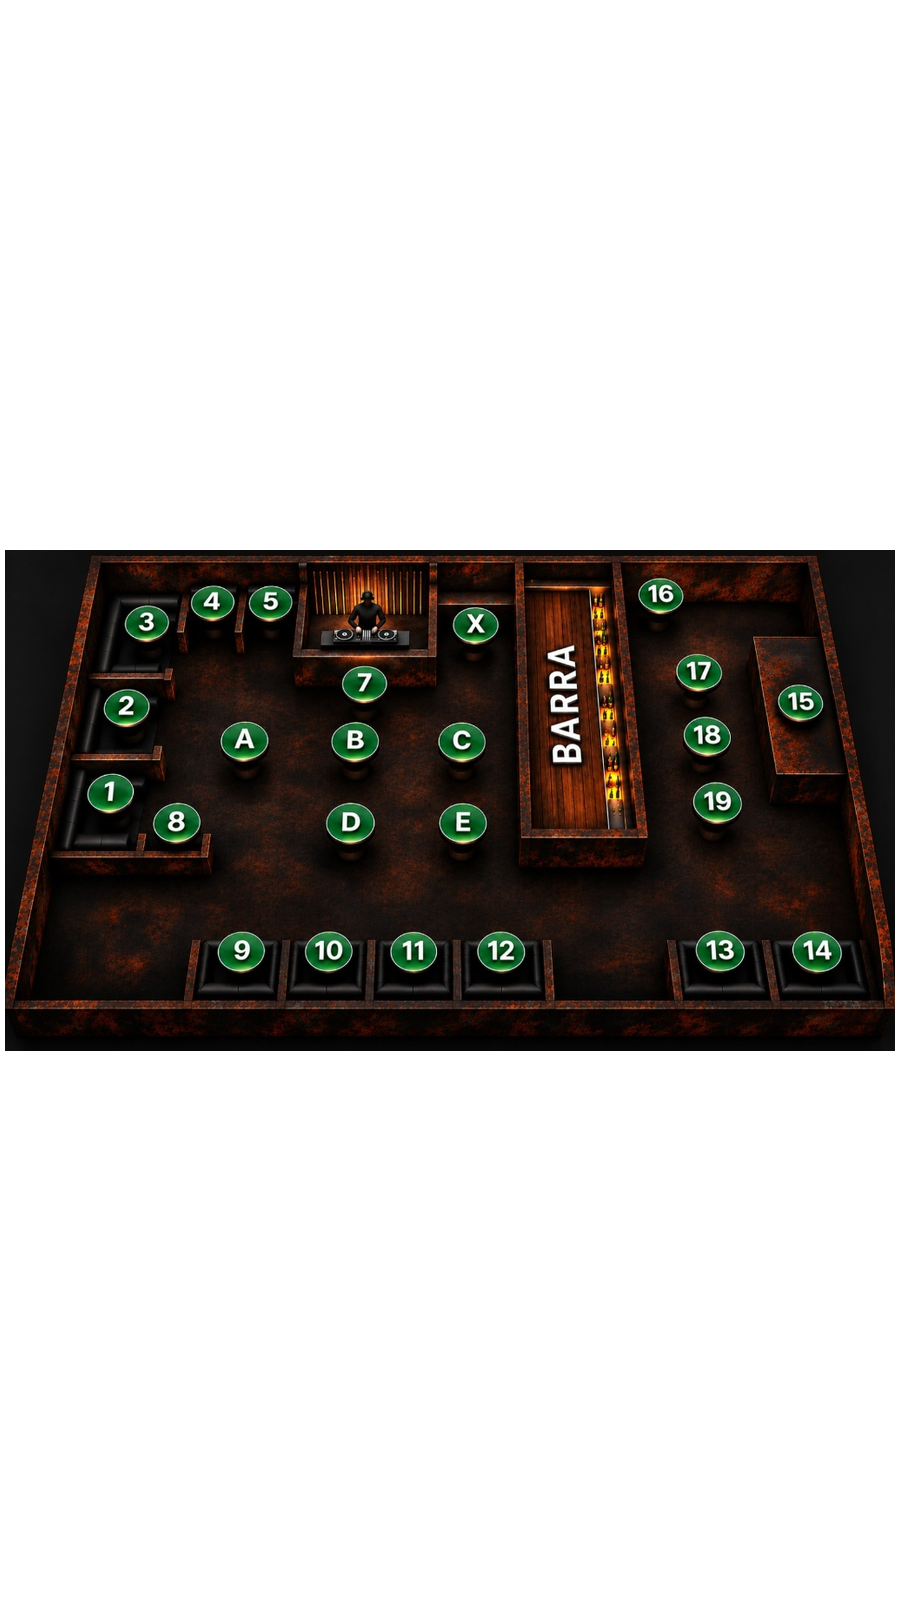
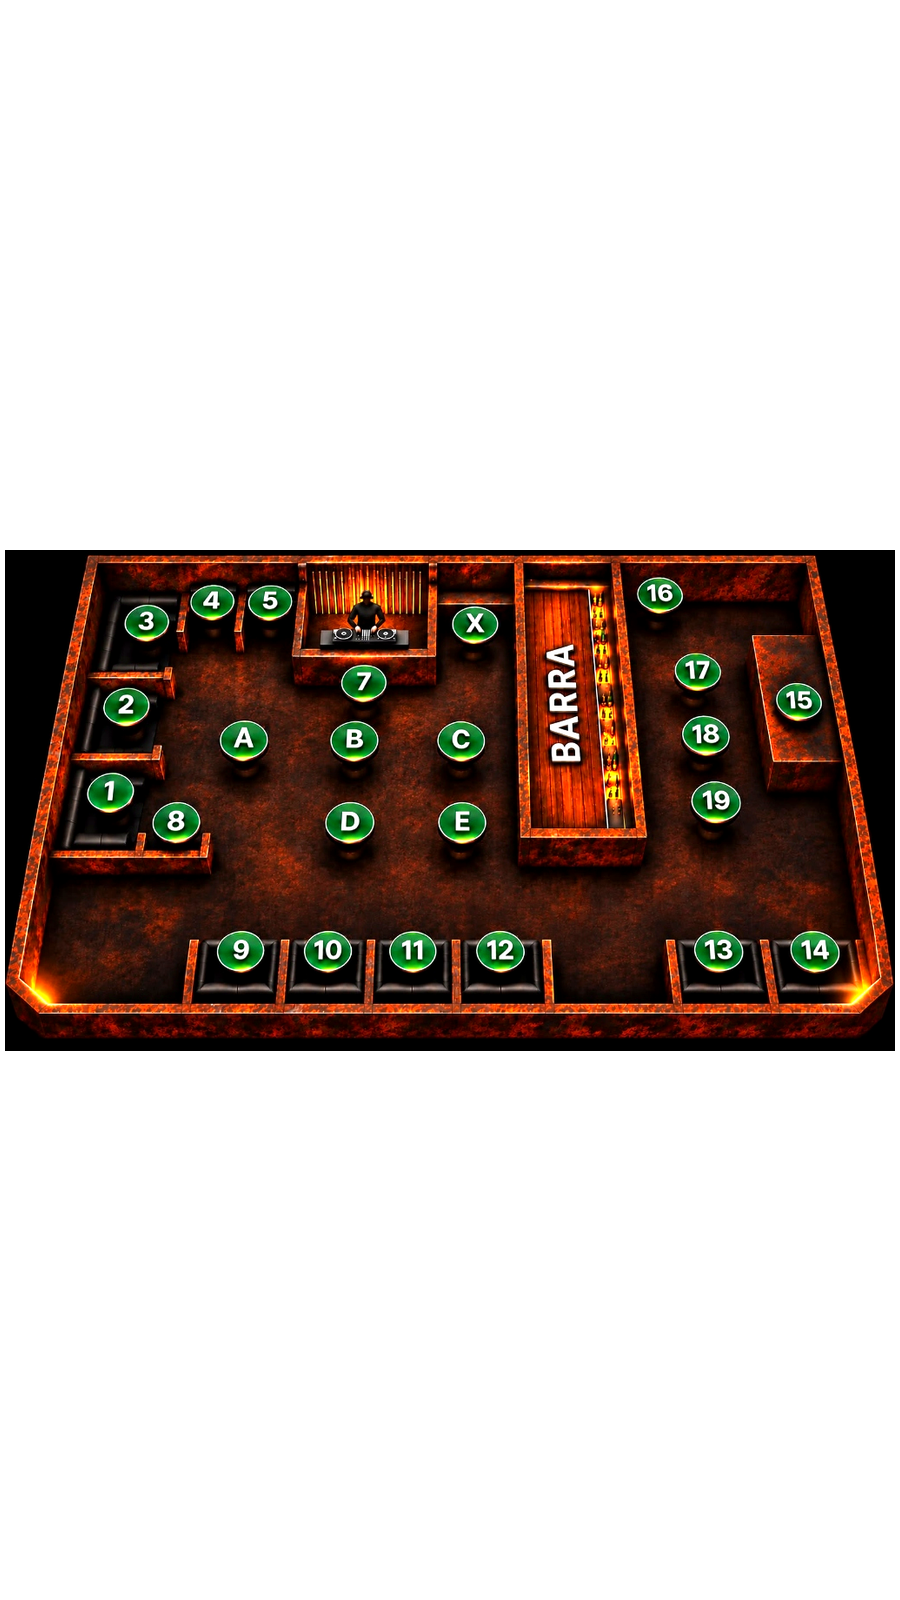
fix(terraza): imagen de plano aclarada con mayor brillo, contraste y definicion

Changed region(s): [[0.0, 0.3438, 0.9956, 0.6562]]

diff --git a/cubano-bar-mesas.html b/cubano-bar-mesas.html
@@ -2139,7 +2139,7 @@
       const mapBgLayerEl = document.getElementById("mapBgLayer");
 
       if (sector === "terraza") {
-        if (mapImgEl) mapImgEl.src = "terraza_cubano.png?v=20261124";
+        if (mapImgEl) mapImgEl.src = "terraza_cubano.png?v=20261124_bright";
         if (ultraVipReserveBtn) ultraVipReserveBtn.style.display = "none";
         if (eventLogoOverlay) eventLogoOverlay.style.display = "none";
 

diff --git a/boleteria.html b/boleteria.html
@@ -995,7 +995,7 @@
         if (mapImgEl) {
           if (!mapImgEl.src.includes("terraza_cubano.png")) {
             mapImgEl.onload = () => renderMesas();
-            mapImgEl.src = "terraza_cubano.png?v=20261124";
+            mapImgEl.src = "terraza_cubano.png?v=20261124_bright";
           }
         }
         if (ultraVipBtn) ultraVipBtn.style.display = "none";

diff --git a/sw.js b/sw.js
@@ -1,5 +1,5 @@
 // Service Worker para Cubano Bar, Joseo Terrace y Demos (PWA)
-const CACHE_NAME = 'mesas-v13';
+const CACHE_NAME = 'mesas-v14';
 const STATIC_ASSETS = [
   './shared.css',
   './manifest.json',
